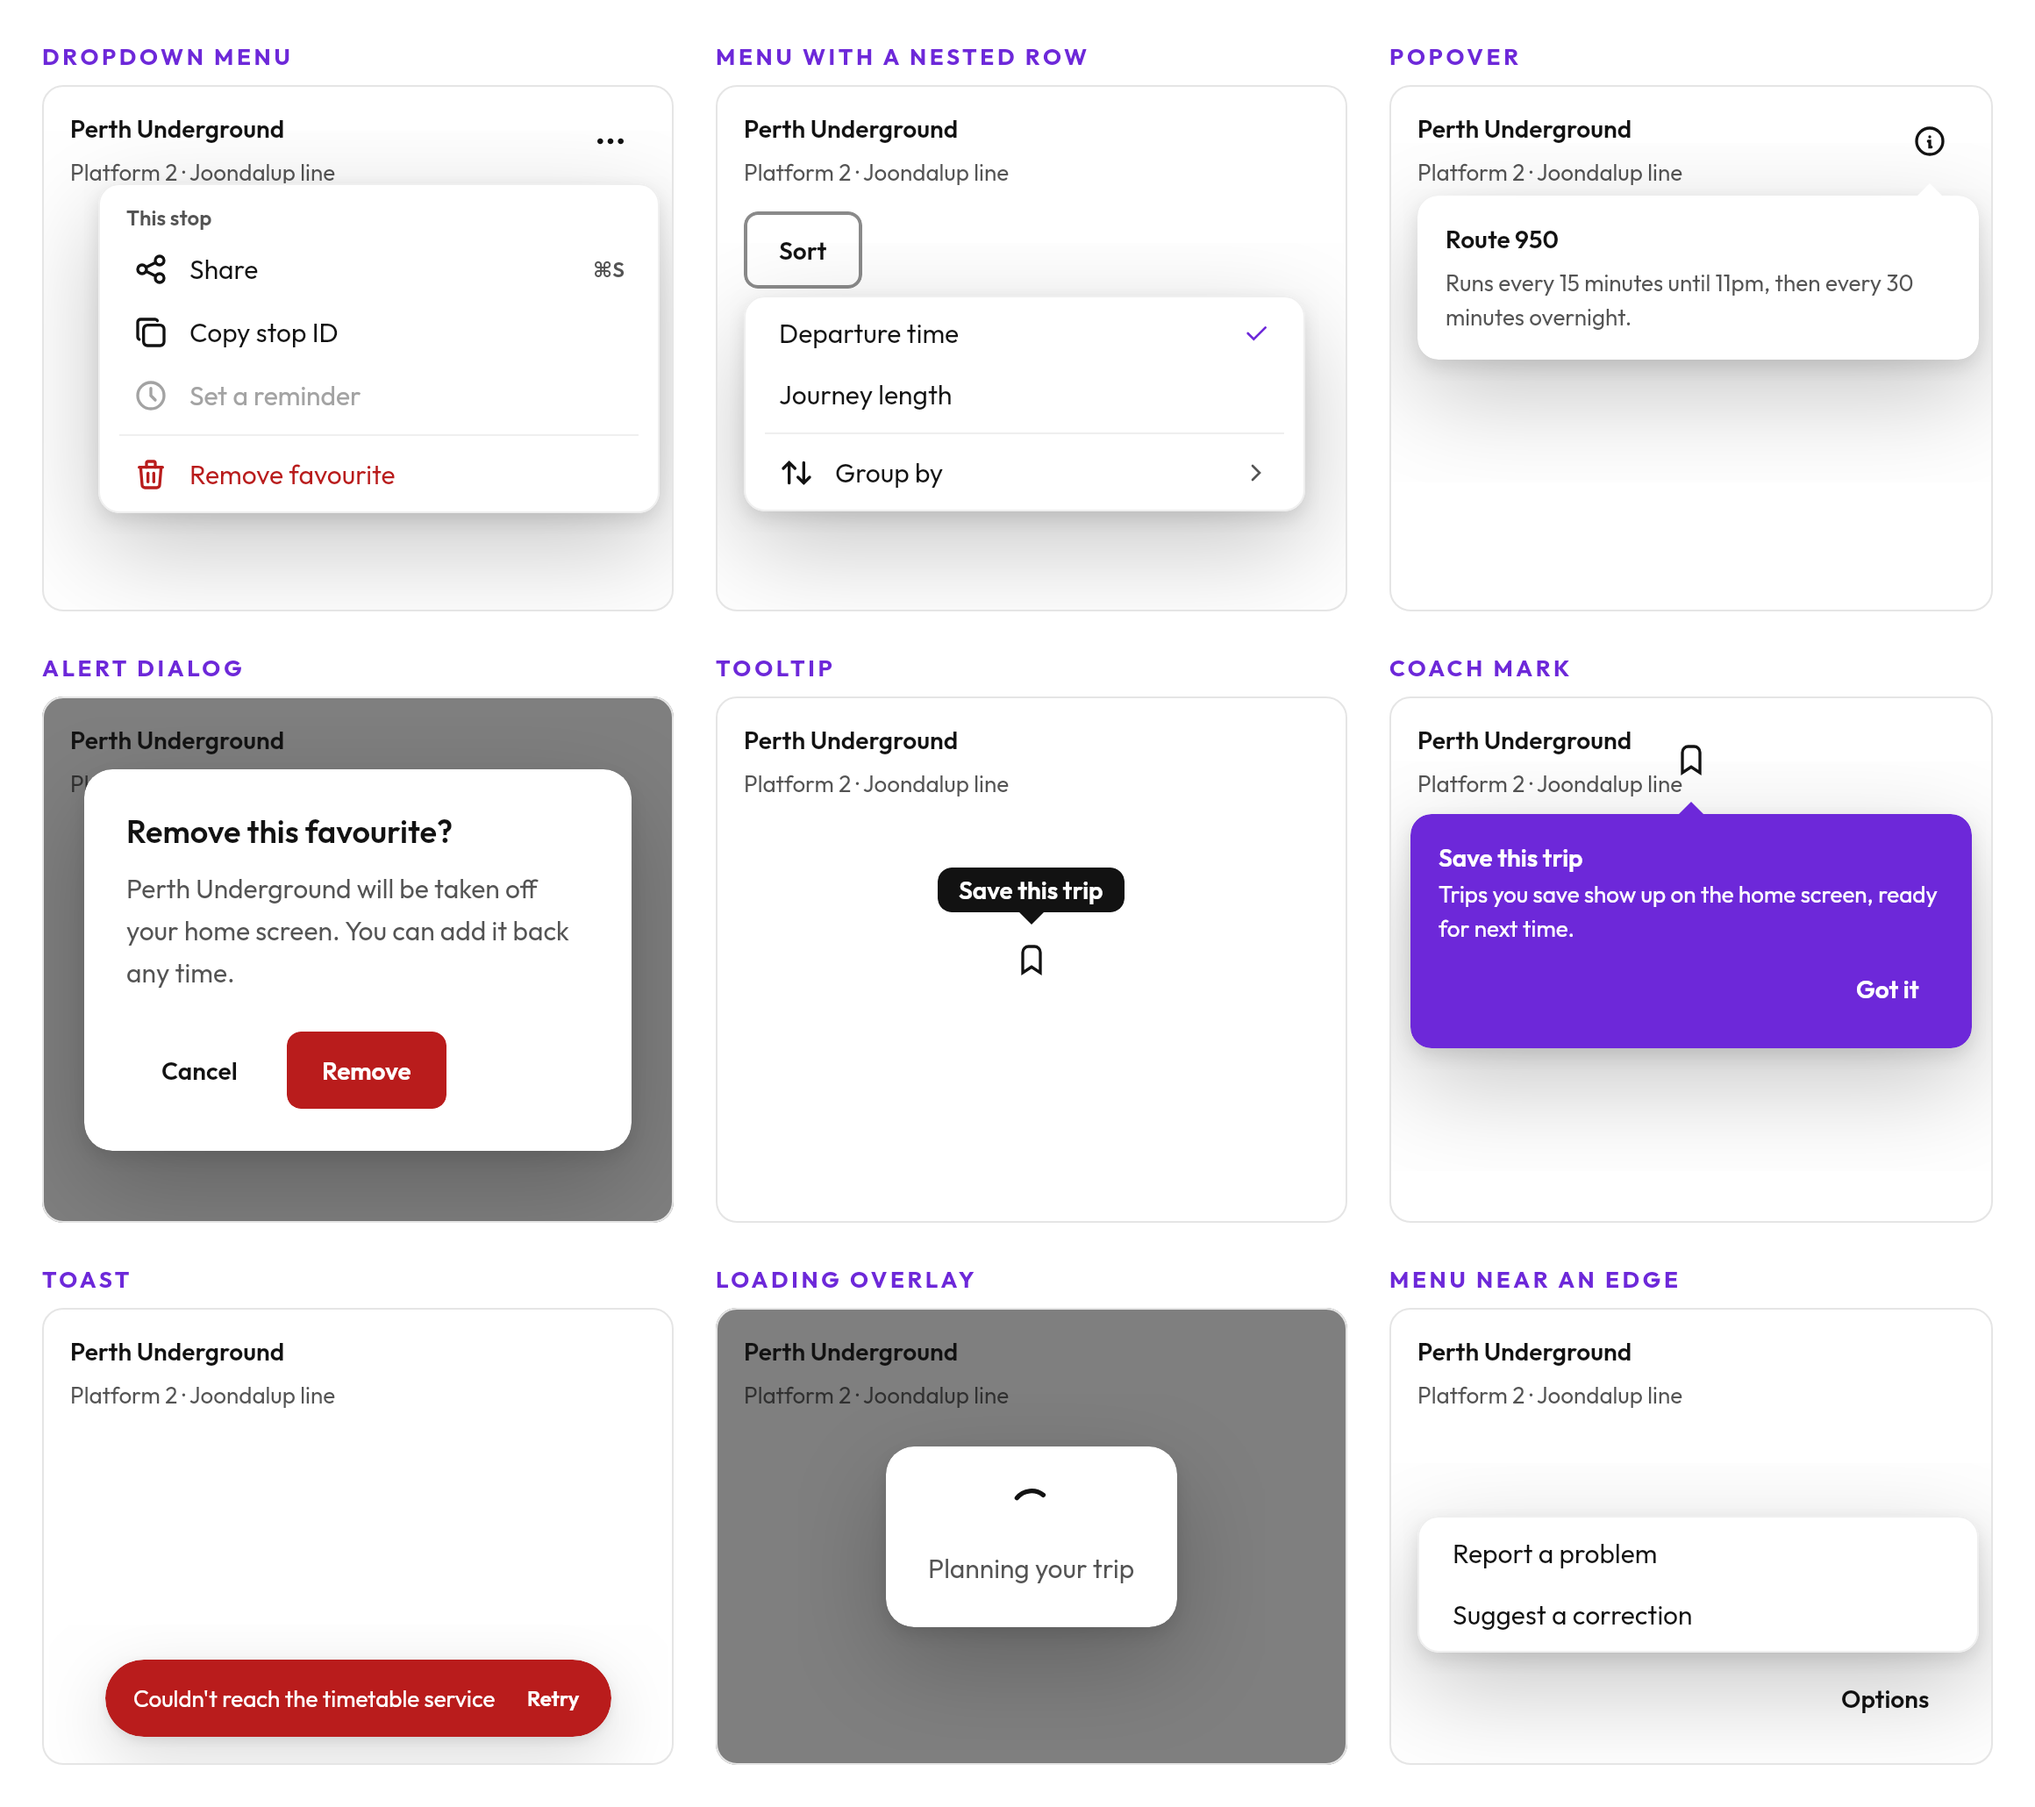
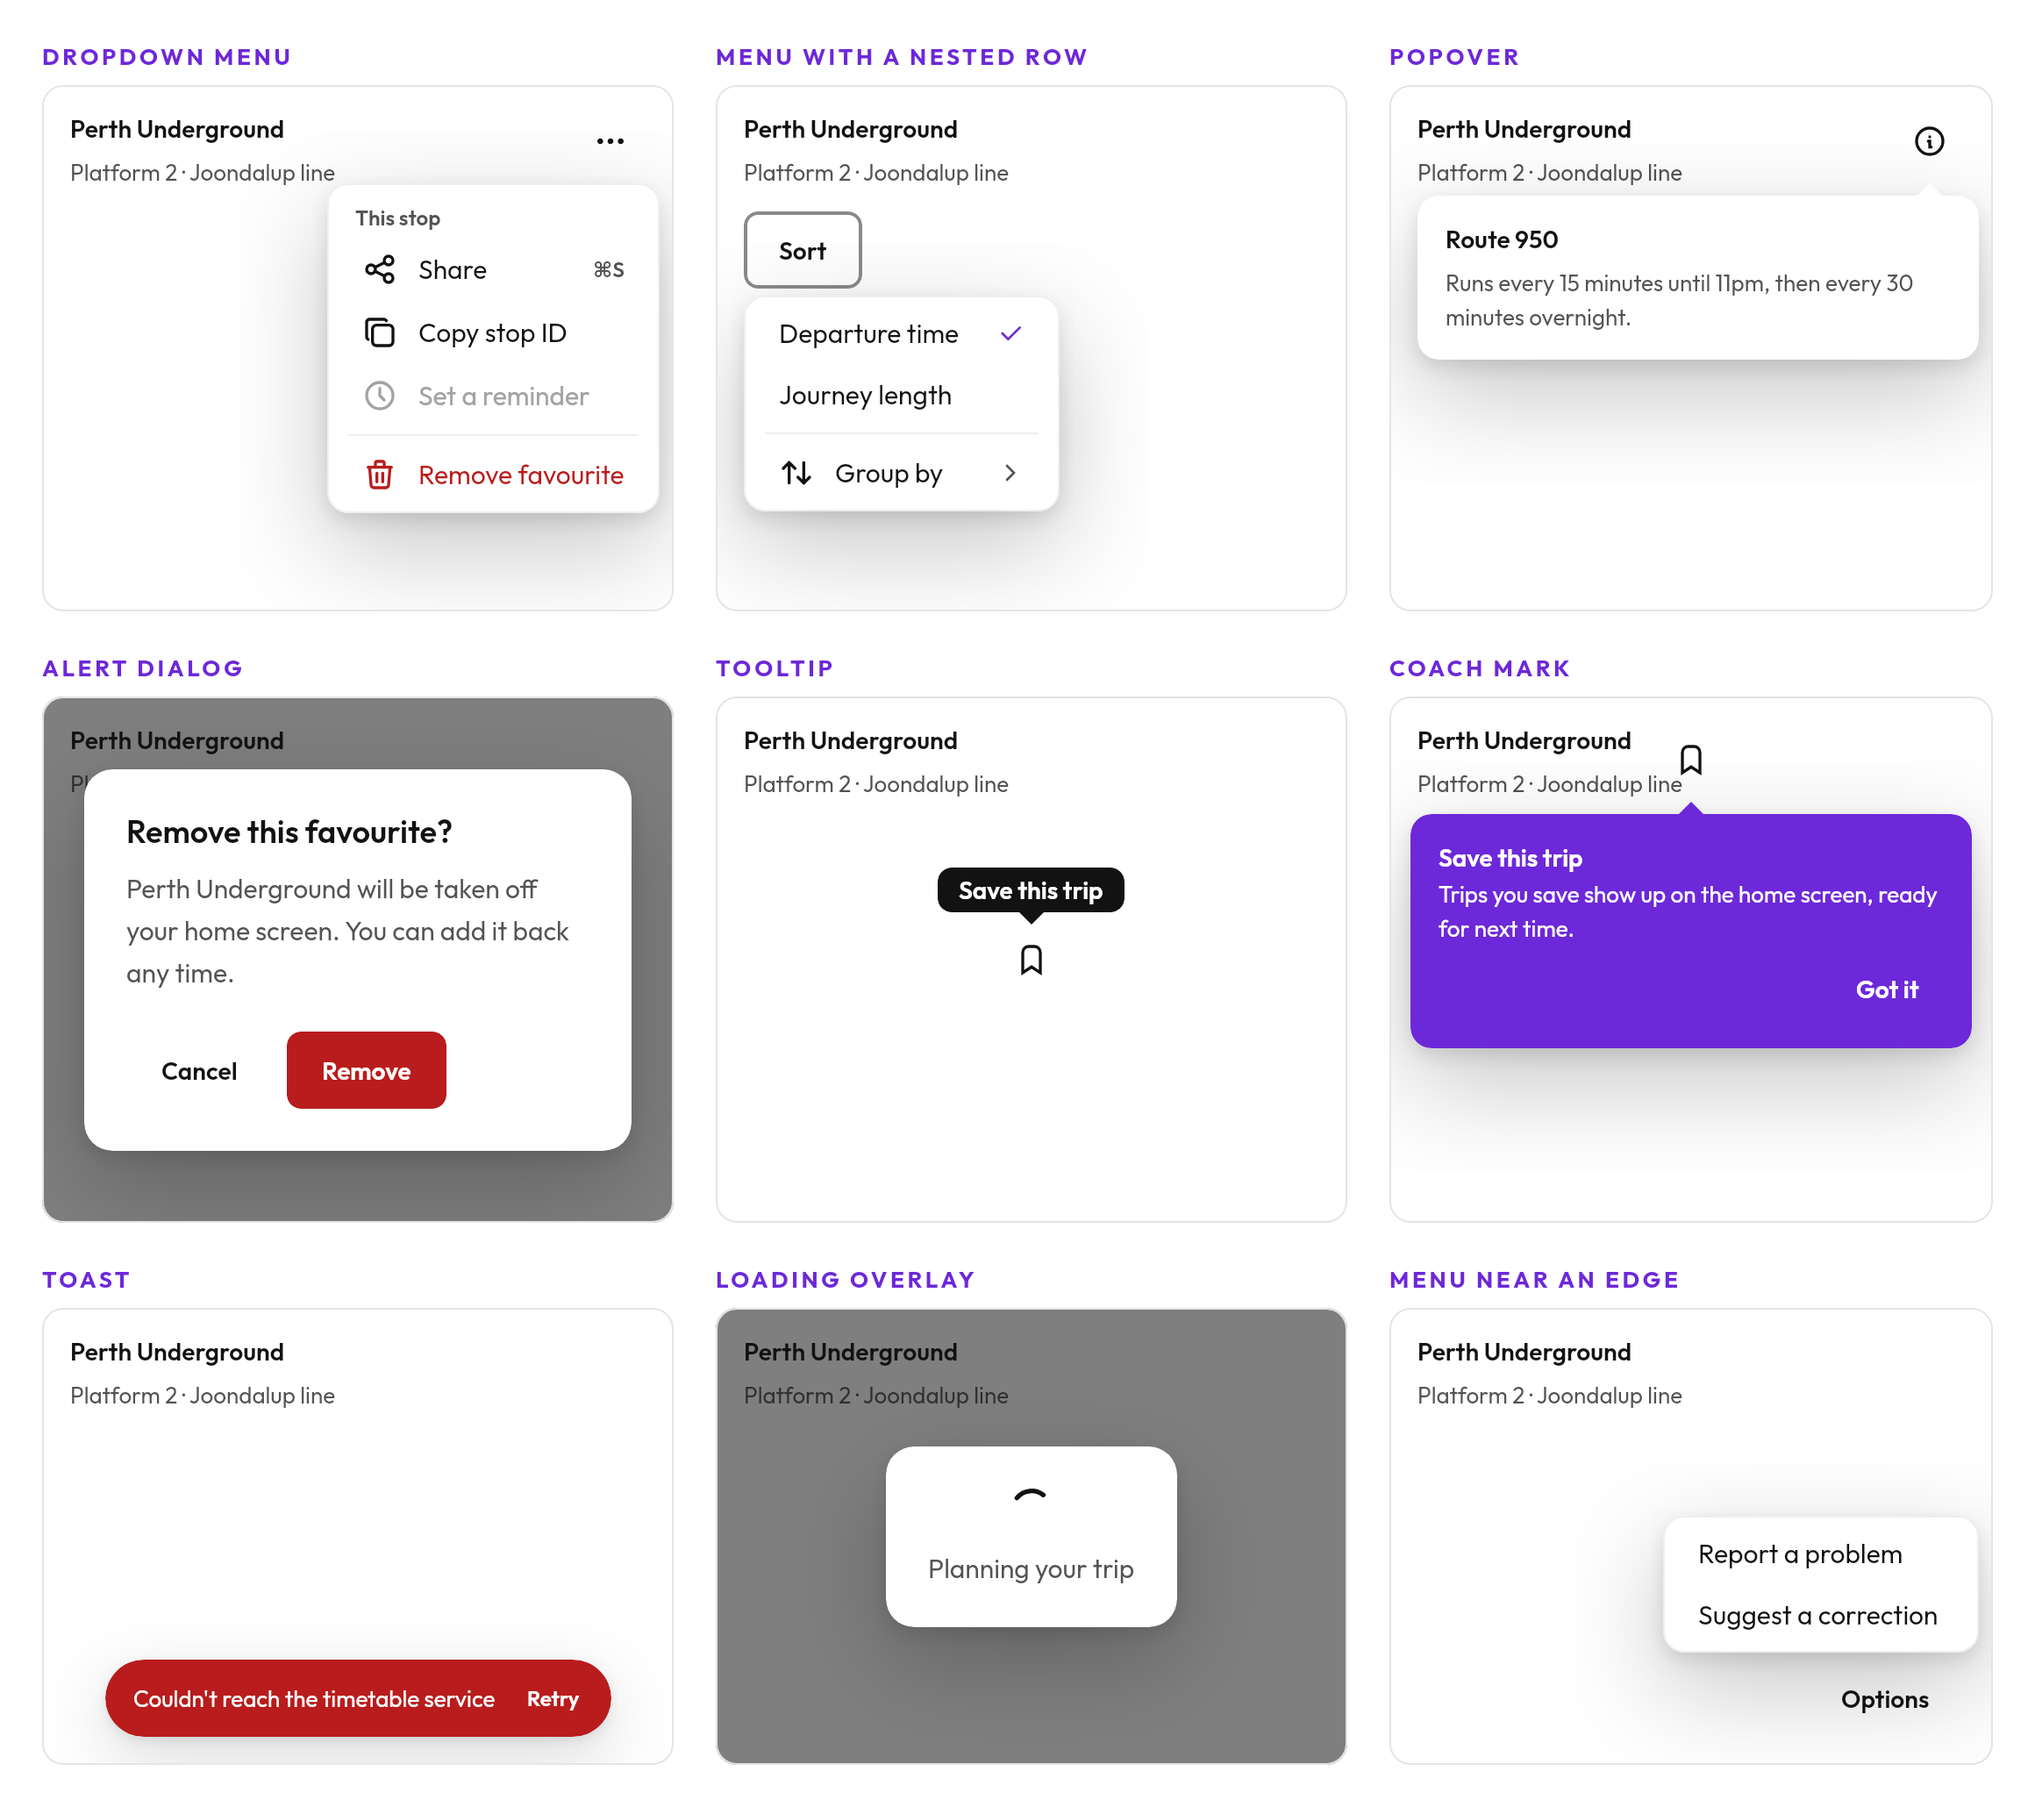
Size menus from their content again, and let a sheet own its own exit
Three corrections to batch 1, two of them to fixes that traded one problem for
another.

Menu width. Replacing the content column's `width(IntrinsicSize.Max)` with
`fillMaxWidth` did remove the trailing gutter, and made every menu its maximum
width instead — a two-item menu has no business being 320dp across. Both halves
were needed: the *panel* now measures itself from the rows' intrinsic width
(clamped by its existing 180/320 `widthIn`), and passes that settled width down
through `propagateMinConstraints` so the rows fill it. Content-sized panel, rows
the width of the panel, no gutter. `Surface` already had the parameter; I should
have used it the first time.

Modal sheet dismissal. Half-fixed was right. The sheet slides down under its own
`SheetState` while the host fades on its own schedule, and both were removing
the entry — so an outside tap pulled the sheet out mid-slide while the scrim
faded, and a swipe-closed left the scrim behind a sheet that had already gone.
Whoever owns the animation has to own the removal: `OverlayEntry.managesOwnExit`
tells the host to invoke `onDismiss` and then keep its hands off. The sheet
awaits `state.hide()` — which suspends until it has landed — and only then hides
the entry, so the scrim is still there to fade behind it.

Full swipe now works in both directions. `isFullSwipeAction` defaulted to false,
so only actions that opted in committed — which meant the gesture worked one way
[…]

diff --git a/ui/src/commonMain/kotlin/io/kontour/ui/overlay/Menu.kt b/ui/src/commonMain/kotlin/io/kontour/ui/overlay/Menu.kt
@@ -275,6 +275,10 @@ private fun MenuPanel(
                 min = if (matchAnchorWidth) Dp.Unspecified else MenuDefaults.MinWidth,
                 max = MenuDefaults.MaxWidth,
             )
+            // Measured from the rows, then clamped by the `widthIn` above — so
+            // the panel hugs its content between 180dp and 320dp rather than
+            // always taking the maximum.
+            .width(IntrinsicSize.Max)
             .heightIn(max = MenuDefaults.MaxHeight)
             .focusRequester(focusRequester)
             .focusGroup()
@@ -287,18 +291,21 @@ private fun MenuPanel(
                 }
             },
         shape = shape,
+        // Hands the panel's settled width down to the column, so the rows are
+        // the panel's width rather than their own.
+        propagateMinConstraints = true,
     ) {
-        // `fillMaxWidth`, not `width(IntrinsicSize.Max)`. The panel's own
-        // `widthIn(min = MenuDefaults.MinWidth)` is satisfied by the surface,
-        // and `Surface` does not propagate its minimum inward — so an
-        // intrinsic-width column sized itself to the widest row, sat at
-        // `TopStart`, and left the difference as bare surface down the trailing
-        // edge. Rows filled the *column*, so the hover wash and the dividers
-        // stopped short of the panel edge with it. Under RTL the gutter simply
-        // moved to the other side.
+        // Fills the panel, and the panel is sized from these rows' intrinsic
+        // width — see the `width(IntrinsicSize.Max)` on the surface above.
         //
-        // Filling the panel makes every row the panel's width, which is what a
-        // menu row has always looked like it was.
+        // Both halves are needed and neither is enough alone. Intrinsic width
+        // *here* sized the column to the widest row while the surface held its
+        // own 180dp minimum, so a menu of short labels left the difference as
+        // bare surface down the trailing edge, with the dividers and the hover
+        // wash stopping short of the panel with it. Filling here without moving
+        // the intrinsic measurement to the surface just made every menu its
+        // maximum width instead, which is worse — a two-item menu has no
+        // business being 320dp wide.
         Column(
             modifier = Modifier
                 .verticalScroll(rememberScrollState())

diff --git a/ui/src/commonMain/kotlin/io/kontour/ui/overlay/OverlayHost.kt b/ui/src/commonMain/kotlin/io/kontour/ui/overlay/OverlayHost.kt
@@ -97,6 +97,16 @@ class OverlayEntry(
     val trapFocus: Boolean = true,
     val dismissLabel: String? = null,
     /**
+     * True when this entry animates its own way out and calls `hide` itself.
+     *
+     * A sheet slides down under its own `SheetState`; the host's fade knows
+     * nothing about that. With the host also removing the entry the moment it
+     * was dismissed, the two raced: the sheet vanished mid-slide while the scrim
+     * faded on the host's schedule, or the scrim outlived a sheet that had
+     * already gone. Whoever owns the animation has to own the removal.
+     */
+    val managesOwnExit: Boolean = false,
+    /**
      * Called after this entry has been dismissed.
      *
      * `onDismiss`, not `onDismissRequest`, and the difference is not cosmetic:
@@ -216,14 +226,16 @@ class OverlayHostState {
     fun dismissTop(): Boolean {
         val target = visible.lastOrNull { it.dismissOnBack } ?: return false
         target.onDismiss?.invoke()
-        hide(target.key)
+        if (!target.managesOwnExit) hide(target.key)
         return true
     }
 
     internal fun dismissOutside(entry: OverlayEntry) {
         if (!entry.dismissOnOutside) return
         entry.onDismiss?.invoke()
-        hide(entry.key)
+        // An entry that animates itself out calls `hide` when it is done. Doing
+        // it here as well is what made a sheet disappear mid-slide.
+        if (!entry.managesOwnExit) hide(entry.key)
     }
 }
 

diff --git a/ui/src/commonMain/kotlin/io/kontour/ui/sheet/BottomSheet.kt b/ui/src/commonMain/kotlin/io/kontour/ui/sheet/BottomSheet.kt
@@ -224,6 +224,9 @@ fun ModalBottomSheet(
                     scrim = ScrimStyle.Dimmed,
                     dismissOnOutside = dismissOnOutside,
                     dismissLabel = dismissLabel,
+                    // The sheet slides itself down and hides the entry when it
+                    // has landed — see the `else` branch below.
+                    managesOwnExit = true,
                     // Tell the caller, not just the sheet. This used to only
                     // launch `state.hide()`, so after an outside tap the host
                     // had dropped the entry while the caller's `visible` was
@@ -246,10 +249,11 @@ fun ModalBottomSheet(
                 )
             )
             state.show()
-        } else if (state.isVisible) {
-            state.hide()
-            host.hide(key)
         } else {
+            // `hide()` suspends until the sheet has finished sliding down, so
+            // the scrim is still there to fade behind it rather than being
+            // pulled out from under a sheet that is still moving.
+            if (state.isVisible) state.hide()
             host.hide(key)
         }
     }

diff --git a/ui/src/commonMain/kotlin/io/kontour/ui/components/list/SwipeActions.kt b/ui/src/commonMain/kotlin/io/kontour/ui/components/list/SwipeActions.kt
@@ -67,7 +67,17 @@ class SwipeAction(
      * tap. Only one action per side may be, and it should be the one a full
      * swipe obviously means — delete on a delete row.
      */
-    val isFullSwipeAction: Boolean = false,
+    /**
+     * Whether swiping clear past the reveal commits this action.
+     *
+     * True by default. A swipe that carries the row the full width of the screen
+     * is not something a thumb does by accident, and requiring every action to
+     * opt in meant the gesture worked in one direction and silently did nothing
+     * in the other — which reads as a broken control rather than as a setting.
+     *
+     * Set false for an action that should always need the deliberate second tap.
+     */
+    val isFullSwipeAction: Boolean = true,
 )
 
 /** Where a swiped row has settled. */

diff --git a/ui/src/commonMain/kotlin/io/kontour/ui/overlay/Anchoring.kt b/ui/src/commonMain/kotlin/io/kontour/ui/overlay/Anchoring.kt
@@ -447,11 +447,20 @@ internal fun OverlaySurface(
     color: Color = Theme.colors.surfaceRaised,
     contentColor: Color = Theme.colors.content,
     border: Boolean = true,
+    /**
+     * Hands the panel's settled width down to its content.
+     *
+     * A menu sizes itself from its rows' intrinsic width but holds a minimum,
+     * so without this the rows come out narrower than the panel and the hover
+     * wash and dividers stop short of its edge.
+     */
+    propagateMinConstraints: Boolean = false,
     content: @Composable () -> Unit,
 ) {
     Surface(
         modifier = modifier,
         shape = shape,
+        propagateMinConstraints = propagateMinConstraints,
         color = color,
         contentColor = contentColor,
         border = if (border) {
